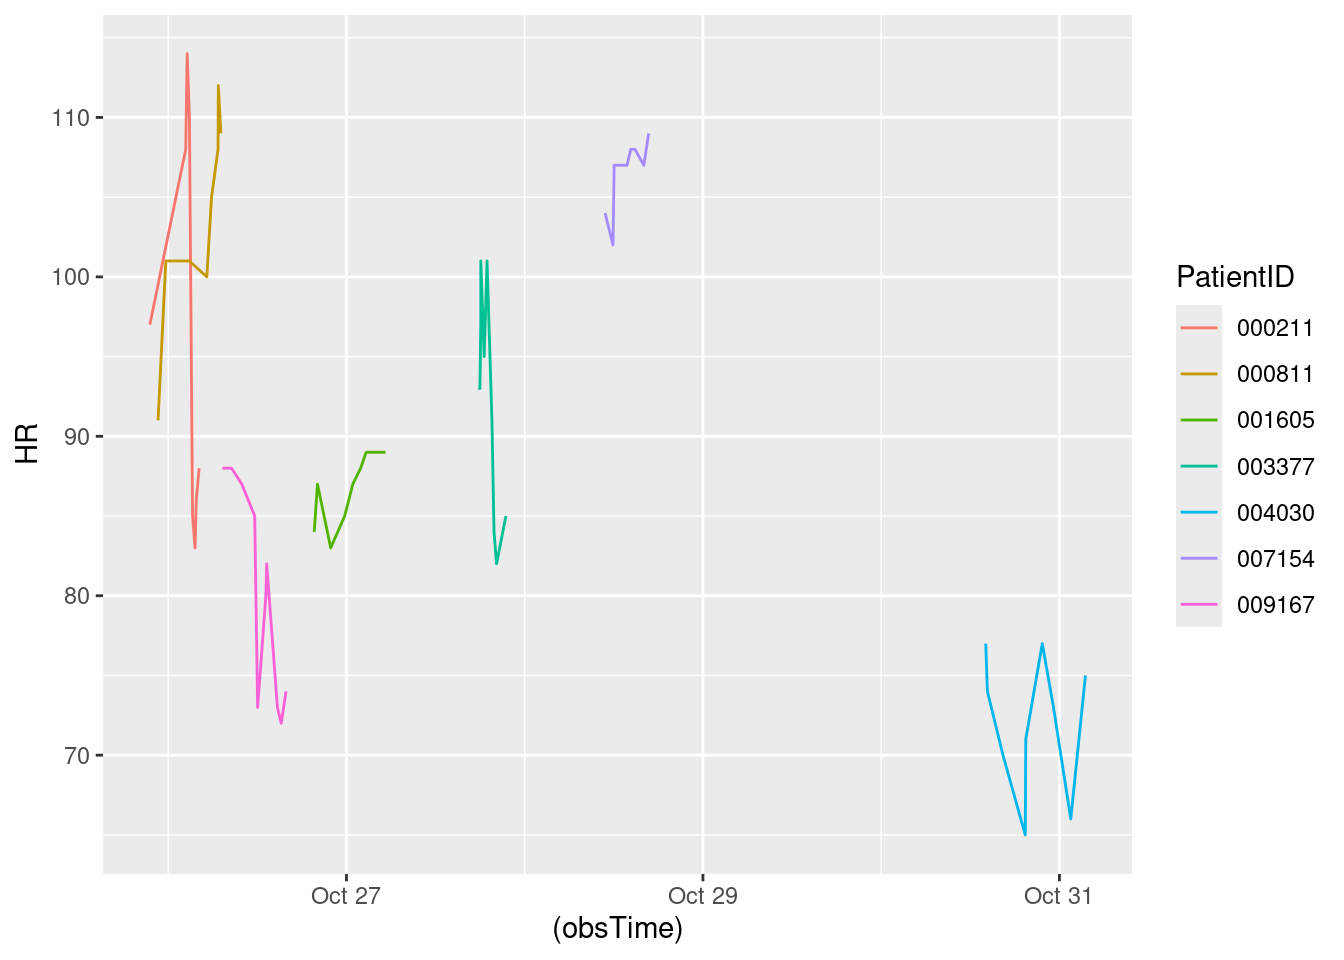
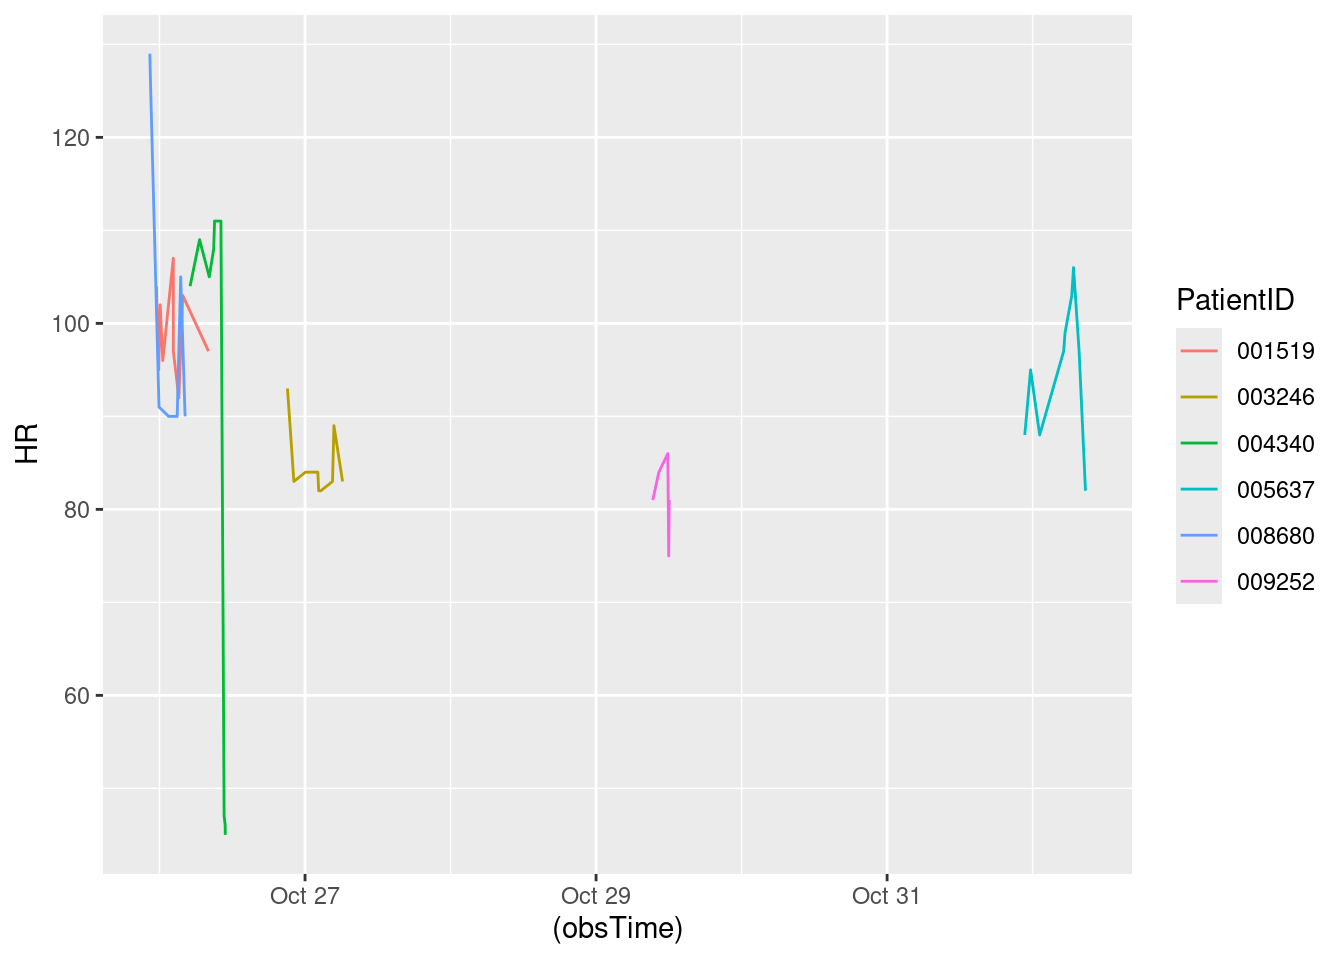
Updated report

diff --git a/HW7.html b/HW7.html
@@ -152,7 +152,7 @@ The following object is masked from 'package:purrr':
 </div>
 <div class="sourceCode cell-code" id="cb8"><pre class="sourceCode r code-with-copy"><code class="sourceCode r"><span id="cb8-1"><a href="#cb8-1" aria-hidden="true" tabindex="-1"></a><span class="fu">toc</span>()</span></code><button title="Copy to Clipboard" class="code-copy-button"><i class="bi"></i></button></pre></div>
 <div class="cell-output cell-output-stdout">
-<pre><code>27.29 sec elapsed</code></pre>
+<pre><code>16.042 sec elapsed</code></pre>
 </div>
 <div class="sourceCode cell-code" id="cb10"><pre class="sourceCode r code-with-copy"><code class="sourceCode r"><span id="cb10-1"><a href="#cb10-1" aria-hidden="true" tabindex="-1"></a><span class="fu">tic</span>()</span>
 <span id="cb10-2"><a href="#cb10-2" aria-hidden="true" tabindex="-1"></a>test1<span class="ot">=</span><span class="fu">makeSepsisDataset</span>(<span class="at">n=</span><span class="dv">50</span>,<span class="at">read_fn =</span> <span class="st">"read_delim"</span>)</span>
@@ -162,7 +162,7 @@ The following object is masked from 'package:purrr':
 </div>
 <div class="sourceCode cell-code" id="cb12"><pre class="sourceCode r code-with-copy"><code class="sourceCode r"><span id="cb12-1"><a href="#cb12-1" aria-hidden="true" tabindex="-1"></a><span class="fu">toc</span>()</span></code><button title="Copy to Clipboard" class="code-copy-button"><i class="bi"></i></button></pre></div>
 <div class="cell-output cell-output-stdout">
-<pre><code>21.366 sec elapsed</code></pre>
+<pre><code>9.937 sec elapsed</code></pre>
 </div>
 <div class="sourceCode cell-code" id="cb14"><pre class="sourceCode r code-with-copy"><code class="sourceCode r"><span id="cb14-1"><a href="#cb14-1" aria-hidden="true" tabindex="-1"></a><span class="fu">tic</span>()</span>
 <span id="cb14-2"><a href="#cb14-2" aria-hidden="true" tabindex="-1"></a>test1<span class="ot">=</span><span class="fu">makeSepsisDataset</span>(<span class="at">n=</span><span class="dv">100</span>,<span class="at">read_fn =</span> <span class="st">"fread"</span>)</span>
@@ -172,7 +172,7 @@ The following object is masked from 'package:purrr':
 </div>
 <div class="sourceCode cell-code" id="cb16"><pre class="sourceCode r code-with-copy"><code class="sourceCode r"><span id="cb16-1"><a href="#cb16-1" aria-hidden="true" tabindex="-1"></a><span class="fu">toc</span>()</span></code><button title="Copy to Clipboard" class="code-copy-button"><i class="bi"></i></button></pre></div>
 <div class="cell-output cell-output-stdout">
-<pre><code>48.252 sec elapsed</code></pre>
+<pre><code>24.198 sec elapsed</code></pre>
 </div>
 <div class="sourceCode cell-code" id="cb18"><pre class="sourceCode r code-with-copy"><code class="sourceCode r"><span id="cb18-1"><a href="#cb18-1" aria-hidden="true" tabindex="-1"></a><span class="fu">tic</span>()</span>
 <span id="cb18-2"><a href="#cb18-2" aria-hidden="true" tabindex="-1"></a>test1<span class="ot">=</span><span class="fu">makeSepsisDataset</span>(<span class="at">n=</span><span class="dv">100</span>,<span class="at">read_fn =</span> <span class="st">"read_delim"</span>)</span>
@@ -182,7 +182,7 @@ The following object is masked from 'package:purrr':
 </div>
 <div class="sourceCode cell-code" id="cb20"><pre class="sourceCode r code-with-copy"><code class="sourceCode r"><span id="cb20-1"><a href="#cb20-1" aria-hidden="true" tabindex="-1"></a><span class="fu">toc</span>()</span></code><button title="Copy to Clipboard" class="code-copy-button"><i class="bi"></i></button></pre></div>
 <div class="cell-output cell-output-stdout">
-<pre><code>41.942 sec elapsed</code></pre>
+<pre><code>16.352 sec elapsed</code></pre>
 </div>
 <div class="sourceCode cell-code" id="cb22"><pre class="sourceCode r code-with-copy"><code class="sourceCode r"><span id="cb22-1"><a href="#cb22-1" aria-hidden="true" tabindex="-1"></a><span class="fu">tic</span>()</span>
 <span id="cb22-2"><a href="#cb22-2" aria-hidden="true" tabindex="-1"></a>test1<span class="ot">=</span><span class="fu">makeSepsisDataset</span>(<span class="at">n=</span><span class="dv">500</span>,<span class="at">read_fn =</span> <span class="st">"fread"</span>)</span>
@@ -192,7 +192,7 @@ The following object is masked from 'package:purrr':
 </div>
 <div class="sourceCode cell-code" id="cb24"><pre class="sourceCode r code-with-copy"><code class="sourceCode r"><span id="cb24-1"><a href="#cb24-1" aria-hidden="true" tabindex="-1"></a><span class="fu">toc</span>()</span></code><button title="Copy to Clipboard" class="code-copy-button"><i class="bi"></i></button></pre></div>
 <div class="cell-output cell-output-stdout">
-<pre><code>243.516 sec elapsed</code></pre>
+<pre><code>115.106 sec elapsed</code></pre>
 </div>
 <div class="sourceCode cell-code" id="cb26"><pre class="sourceCode r code-with-copy"><code class="sourceCode r"><span id="cb26-1"><a href="#cb26-1" aria-hidden="true" tabindex="-1"></a><span class="fu">tic</span>()</span>
 <span id="cb26-2"><a href="#cb26-2" aria-hidden="true" tabindex="-1"></a>test1<span class="ot">=</span><span class="fu">makeSepsisDataset</span>(<span class="at">n=</span><span class="dv">500</span>,<span class="at">read_fn =</span> <span class="st">"read_delim"</span>)</span>
@@ -202,7 +202,7 @@ The following object is masked from 'package:purrr':
 </div>
 <div class="sourceCode cell-code" id="cb28"><pre class="sourceCode r code-with-copy"><code class="sourceCode r"><span id="cb28-1"><a href="#cb28-1" aria-hidden="true" tabindex="-1"></a><span class="fu">toc</span>()</span></code><button title="Copy to Clipboard" class="code-copy-button"><i class="bi"></i></button></pre></div>
 <div class="cell-output cell-output-stdout">
-<pre><code>209.932 sec elapsed</code></pre>
+<pre><code>82.113 sec elapsed</code></pre>
 </div>
 </div>
 <p>Problem 3: Speed reading</p>
@@ -244,7 +244,7 @@ dttm (1): obsTime
 <div class="sourceCode cell-code" id="cb35"><pre class="sourceCode r code-with-copy"><code class="sourceCode r"><span id="cb35-1"><a href="#cb35-1" aria-hidden="true" tabindex="-1"></a><span class="co">#Sys.Date()</span></span>
 <span id="cb35-2"><a href="#cb35-2" aria-hidden="true" tabindex="-1"></a><span class="fu">Sys.time</span>()</span></code><button title="Copy to Clipboard" class="code-copy-button"><i class="bi"></i></button></pre></div>
 <div class="cell-output cell-output-stdout">
-<pre><code>[1] "2024-10-25 21:31:46 UTC"</code></pre>
+<pre><code>[1] "2024-10-25 22:24:21 UTC"</code></pre>
 </div>
 <div class="sourceCode cell-code" id="cb37"><pre class="sourceCode r code-with-copy"><code class="sourceCode r"><span id="cb37-1"><a href="#cb37-1" aria-hidden="true" tabindex="-1"></a>dfnew<span class="ot">=</span>df <span class="sc">%&gt;%</span><span class="fu">subset</span>(SepsisLabel<span class="sc">==</span><span class="dv">1</span>)</span>
 <span id="cb37-2"><a href="#cb37-2" aria-hidden="true" tabindex="-1"></a></span>
@@ -259,24 +259,23 @@ dttm (1): obsTime
 <span id="cb37-11"><a href="#cb37-11" aria-hidden="true" tabindex="-1"></a></span>
 <span id="cb37-12"><a href="#cb37-12" aria-hidden="true" tabindex="-1"></a><span class="fu">print</span>(res)</span></code><button title="Copy to Clipboard" class="code-copy-button"><i class="bi"></i></button></pre></div>
 <div class="cell-output cell-output-stdout">
-<pre><code># A tibble: 7 × 7
-# Groups:   PatientID [7]
+<pre><code># A tibble: 6 × 7
+# Groups:   PatientID [6]
   PatientID ICULOS    HR  Temp  Resp SepsisLabel obsTime            
   &lt;chr&gt;      &lt;int&gt; &lt;int&gt; &lt;dbl&gt; &lt;int&gt;       &lt;int&gt; &lt;dttm&gt;             
-1 000211         7    88  NA      22           1 2024-10-26 04:09:51
-2 000811        10   109  39.3    36           1 2024-10-26 07:05:12
-3 001605        33    89  NA      14           1 2024-10-27 05:16:08
-4 003377        49    85  NA      16           1 2024-10-27 21:28:27
-5 004030       127    75  NA      19           1 2024-10-31 03:30:24
-6 007154        68   109  NA      36           1 2024-10-28 16:41:22
-7 009167        25    74  38.3    16           1 2024-10-26 15:52:12</code></pre>
+1 001519        10    97  NA      16           1 2024-10-26 08:05:01
+2 003246        32    83  NA      15           1 2024-10-27 06:11:31
+3 004340        14    45  NA      16           1 2024-10-26 10:50:29
+4 005637       155    82  NA      23           1 2024-11-01 08:43:05
+5 008680         6    90  35.7    20           1 2024-10-26 04:13:10
+6 009252        88    NA  NA      NA           1 2024-10-29 14:04:38</code></pre>
 </div>
 </div>
 <div class="cell">
 <div class="sourceCode cell-code" id="cb39"><pre class="sourceCode r code-with-copy"><code class="sourceCode r"><span id="cb39-1"><a href="#cb39-1" aria-hidden="true" tabindex="-1"></a>dfnew <span class="sc">%&gt;%</span></span>
 <span id="cb39-2"><a href="#cb39-2" aria-hidden="true" tabindex="-1"></a>  <span class="fu">ggplot</span>()<span class="sc">+</span><span class="fu">geom_line</span>(<span class="fu">aes</span>(<span class="at">y=</span>HR,<span class="at">x=</span>(obsTime),<span class="at">color=</span>PatientID))</span></code><button title="Copy to Clipboard" class="code-copy-button"><i class="bi"></i></button></pre></div>
 <div class="cell-output cell-output-stderr">
-<pre><code>Warning: Removed 2 rows containing missing values or values outside the scale range
+<pre><code>Warning: Removed 3 rows containing missing values or values outside the scale range
 (`geom_line()`).</code></pre>
 </div>
 <div class="cell-output-display">
